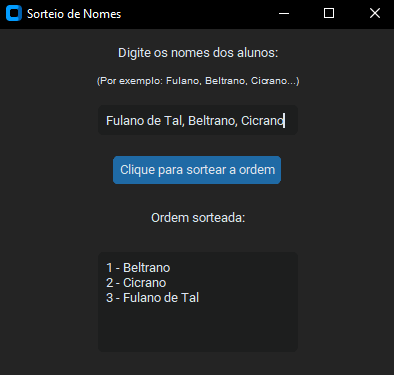
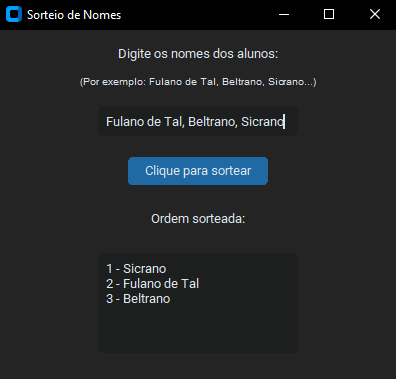
Alteração do exemplo e imagem da interface.

diff --git a/SORTEIO_NOMES/sorteio_nomes.py b/SORTEIO_NOMES/sorteio_nomes.py
@@ -25,7 +25,7 @@ entrada = ctk.CTkLabel(janela, text="Digite os nomes dos alunos:")
 entrada.pack(pady=(10, 0))
 
 # exemplo
-entrada2 = ctk.CTkLabel(janela, text="(Por exemplo: Fulano, Beltrano, Cicrano...)", font=("", 10))
+entrada2 = ctk.CTkLabel(janela, text="(Por exemplo: Fulano de Tal, Beltrano, Sicrano...)", font=("", 10))
 entrada2.pack(pady=0)
 
 # espaço pra inserir os nomes
@@ -33,10 +33,10 @@ entrada_text = ctk.CTkTextbox(janela, height=30)
 entrada_text.pack(pady=10)
 
 # botão pra sortear os nomes
-embaralhar_button = ctk.CTkButton(janela, text="Clique para sortear a ordem", command=sortear_nomes)
-embaralhar_button.pack(pady=10)
+sortear_button = ctk.CTkButton(janela, text="Clique para sortear", command=sortear_nomes)
+sortear_button.pack(pady=10)
 
-# textor rs
+# texto
 resultado_label = ctk.CTkLabel(janela, text="Ordem sorteada:")
 resultado_label.pack(pady=10)
 
